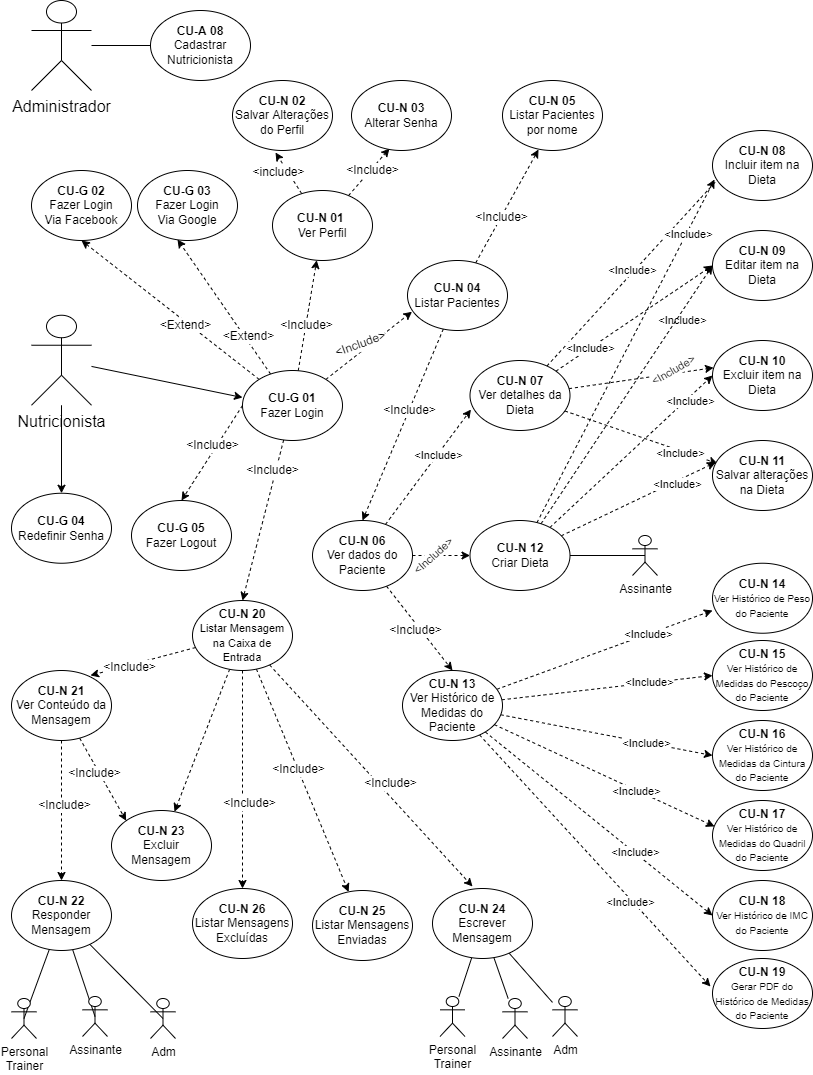
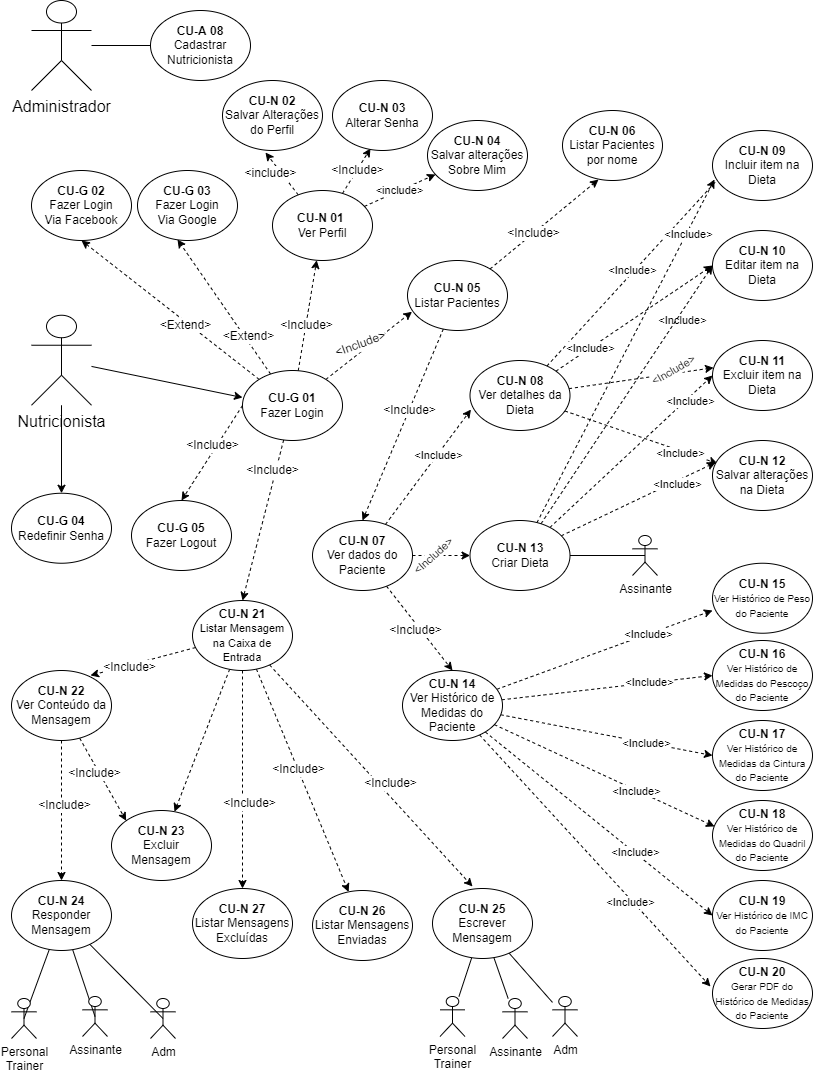
testes para os endpoints Nutri - alterar dados do perfil, alterar senha, alterar informações sobre mim

Changed region(s): [[0.2768, 0.0614, 0.7995, 0.2456]]

diff --git a/api/controllers/nutricionistasController.js b/api/controllers/nutricionistasController.js
@@ -27,7 +27,7 @@ function cadastrarNutricionista(req, res) {
     }
 
     let novoUsuario = {
-        id: crypto.randomUUID(),
+        idUsuario: crypto.randomUUID(),
         nome: req.body.nome,
         login: req.body.email,
         senha: geradorDeSenha.generate({
@@ -46,7 +46,7 @@ function cadastrarNutricionista(req, res) {
         repositorioDeUsuarios.salvarDadosDoUsuario(novoUsuario);
 
         let novoNutricionista = {
-            id: crypto.randomUUID(),
+            idNutri: crypto.randomUUID(),
             usuario: novoUsuario,
             nome: req.body.nome,
             email: req.body.email,
@@ -62,7 +62,6 @@ function cadastrarNutricionista(req, res) {
         res.send({
             IdUsuario: novoUsuario.id,
             idNutri: novoNutricionista.id,
-            senha: novoUsuario.senha
         });
 
     } else {
@@ -104,7 +103,9 @@ function buscarNutriPorId(req, res) {
         email: nutriEncontrado.email,
         telefone: nutriEncontrado.telefone,
         registro: nutriEncontrado.registroProfissional,
-        status: nutriEncontrado.usuario.bloqueado
+        status: nutriEncontrado.usuario.bloqueado,
+        imagem: nutriEncontrado.usuario.imagem,
+        sobreMim: nutriEncontrado.sobreMim
     });
 }
 
@@ -158,18 +159,17 @@ function alterarDadosDoPerfil(req, res) {
         return;
     }
 
-    if(req.usuario.idUsuario != nutriEncontrado.usuario.id) {
+    if(req.usuario.idUsuario != nutriEncontrado.usuario.idUsuario) {
         res.status(401).send({ erro: "Não autorizado"});
         return;
     }
-
 
 
     const novaImagem = req.body.imagem;
     const novoTelefone = req.body.telefone;
 
     if (novaImagem != undefined && novaImagem != null && novaImagem != "") {
-        nutriEncontrado.imagem = novaImagem;
+        nutriEncontrado.usuario.imagem = novaImagem;
     }
 
     if(novoTelefone != undefined && novoTelefone != null && novoTelefone != '') {
@@ -188,7 +188,7 @@ function alterarSenha(req, res) {
         return;
     }
 
-    if(req.usuario.idUsuario != nutriEncontrado.usuario.id) {
+    if(req.usuario.idUsuario != nutriEncontrado.usuario.idUsuario) {
         res.status(401).send({ erro: "Não autorizado"});
         return;
     }
@@ -202,8 +202,8 @@ function alterarSenha(req, res) {
     res.send(nutriEncontrado.usuario)
 }
 
-// O Nutricionista altera texto "sobre mim"
-function alterarTextoSobreMim(req, res) {
+// O Nutricionista altera informações "sobre mim"
+function alterarInformacoesSobreMim(req, res) {
     const nutriEncontrado = repositorioDeNutricionistas.buscarNutriPorId(req.params.id);
 
     if (!nutriEncontrado) {
@@ -211,11 +211,11 @@ function alterarTextoSobreMim(req, res) {
         return;
     }
 
-    if(req.usuario.idUsuario != nutriEncontrado.usuario.id) {
+    if(req.usuario.idUsuario != nutriEncontrado.usuario.idUsuario) {
         res.status(401).send({ erro: "Não autorizado"});
         return;
     }
-    nutriEncontrado.sobreMim = req.body.texto;;
+    nutriEncontrado.sobreMim = req.body.texto;
 
     res.send(nutriEncontrado)
 }
@@ -251,7 +251,7 @@ module.exports = {
     alterarDadosDoNutricionista: alterarDadosDoNutricionista,
     alterarDadosDoPerfil: alterarDadosDoPerfil,
     alterarSenha: alterarSenha,
-    alterarTextoSobreMim: alterarTextoSobreMim,
+    alterarInformacoesSobreMim: alterarInformacoesSobreMim,
     buscarPacientes: buscarPacientes,
 }
 

diff --git a/api/dados.js b/api/dados.js
@@ -3,25 +3,79 @@ const crypto = require('crypto');
 const dados = {
     usuarios: [
         {
-            id: "e7c17d74-f067-46ca-9734-1c232ba0ea18",
+            idUsuario: "e7c17d74-f067-46ca-9734-1c232ba0ea18",
             nome: 'Administrador',
             login: 'admin@fitapp.com',
             senha: 'admin123',
             bloqueado: false,
             perfil: 'administrador'
+        },
+        {
+            idUsuario: 'idUsuarioNutri',
+            nome: 'Nutricionista',
+            login: 'nutri@fitapp.com',
+            senha: 'nutri123',
+            bloqueado: false,
+            perfil: 'nutricionista',
+            imagem: ''
+        },
+        {
+            idUsuario: "idUsuarioPersonal",
+            nome: 'Personal',
+            login: 'personal@fitapp.com',
+            senha: 'personal123',
+            bloqueado: false,
+            perfil: 'personal',
+            imagem:''
         }
     ],
 
     planos: [],
 
-    nutricionistas: [],
+    nutricionistas: [
+        {
+            idNutri: 'idNutri',
+            usuario: {
+                idUsuario: 'idUsuarioNutri',
+                nome: 'Nutricionista',
+                login: 'nutri@fitapp.com',
+                senha: 'nutri123',
+                bloqueado: false,
+                perfil: 'nutricionista',
+                imagem: ''
+            },
+            nome: 'Nutricionista',
+            email: 'nutri@fitapp.com',
+            telefone: '999999999',
+            registroProfissional: 'CRN 123',
+            sobreMim: ''
+        },
+    ],
 
-    personalTrainers: [],
+    personalTrainers: [
+        {
+            idNutri: 'idPersonal',
+            usuario:  {
+                idUsuario: "idUsuarioPersonal",
+                nome: 'Personal',
+                login: 'personal@fitapp.com',
+                senha: 'personal123',
+                bloqueado: false,
+                perfil: 'personal',
+                imagem:''
+            },
+            nome: 'Personal',
+            email: 'personal@fitapp.com',
+            telefone: '999999999',
+            registroProfissional: 'CRP 123',
+            sobreMim: ''
+        }
+    ],
 
     assinantes: [],
 
     mensagens: []
-        
+
 }
 
 module.exports = {

diff --git a/testes/casosDeTeste/geral/buscarAssinantePorId.js b/testes/casosDeTeste/geral/buscarAssinantePorId.js
@@ -1,0 +1,24 @@
+const { spec } = require('pactum');
+const crypto = require('crypto');
+const nutricionista = require('../../funcoes/nutricionista');
+const personal = require('../../funcoes/personal');
+const usuario = require('../../funcoes/usuario');
+const plano = require('../../funcoes/plano');
+const assinante = require('../../funcoes/assinante');
+
+it('CU-A 01 - deve listar assinantes', async () => {
+    const token = await usuario.gerarToken('admin@fitapp.com', 'admin123');
+
+    const idPlano = await plano.cadastrarPlano(token, `Gratuito_${crypto.randomUUID()}`, 0, "Experimente gratis por 15 dias");
+
+    const idNutri = await nutricionista.cadastrarNutri(token, "ana", `ana_${crypto.randomUUID()}@fitapp.com`, "99999999", "BFUDbHJKd");
+
+    const idPersonal = await personal.cadastrarPersonal(token, "Bruno", `bruno_${crypto.randomUUID()}@fitapp.com`, "55 555 55 55", "CRN 123");
+
+    const idAssinante = await assinante.cadastrarAssinante("Guilherme", `gui_${crypto.randomUUID()}@fitapp.com`, idPlano, idNutri, idPersonal);
+
+    await spec()
+        .get(`http://localhost:3000/assinante/${idAssinante}`)
+        .withHeaders("Authorization", "Bearer " + token)
+        .expectStatus(200);
+});

diff --git a/testes/casosDeTeste/nutricionista/alterarDadosDoPerfil.js b/testes/casosDeTeste/nutricionista/alterarDadosDoPerfil.js
@@ -1,0 +1,27 @@
+const { spec } = require('pactum');
+const usuario = require('../../funcoes/usuario');
+
+it('CU-N 02 - O Nutricionista deve alterar os dados do perfil', async () => {
+    const tokenNutri = await usuario.gerarToken('nutri@fitapp.com', 'nutri123');
+
+    await spec()
+        .patch(`http://localhost:3000/nutricionista/idNutri/perfil`)
+        .withHeaders("Authorization", "Bearer " + tokenNutri)
+        .withJson({
+            "imagem": "umaFoto",
+            "telefone": "555555555",
+        })
+        .expectStatus(200);
+
+    await spec()
+        .get(`http://localhost:3000/nutricionista/idNutri`)
+        .withHeaders("Authorization", "Bearer " + tokenNutri)
+        .expectJsonLike(
+            {
+                "imagem": "umaFoto",
+                "telefone": "555555555",
+            }
+        )
+        .expectStatus(200);
+
+})

diff --git a/testes/casosDeTeste/nutricionista/alterarInformacoesSobreMim.js b/testes/casosDeTeste/nutricionista/alterarInformacoesSobreMim.js
@@ -1,0 +1,26 @@
+const { spec } = require('pactum');
+const usuario = require('../../funcoes/usuario');
+
+it('CU-N 04 - O Nutricionista deve alterar as informacoes Sobre Mim', async () => {
+    const tokenNutri = await usuario.gerarToken('nutri@fitapp.com', 'nutri123');
+
+    await spec()
+        .patch(`http://localhost:3000/nutricionista/idNutri/sobreMim`)
+        .withHeaders("Authorization", "Bearer " + tokenNutri)
+        .withJson({
+            "texto": "Informações sobre a Nutri",
+            
+        })
+        .expectStatus(200);
+
+    await spec()
+        .get(`http://localhost:3000/nutricionista/idNutri`)
+        .withHeaders("Authorization", "Bearer " + tokenNutri)
+        .expectJsonLike(
+            {
+                "sobreMim": "Informações sobre a Nutri",
+            }
+        )
+        .expectStatus(200);
+
+})

diff --git a/api/index.js b/api/index.js
@@ -23,7 +23,7 @@ servidor.app.patch('/nutricionista/:id', autorizacao.autorizar(model.perfil.admi
 servidor.app.get('/nutricionista/:id', nutricionistasController.buscarNutriPorId);
 servidor.app.patch('/nutricionista/:id/perfil', nutricionistasController.alterarDadosDoPerfil);
 servidor.app.patch('/nutricionista/:id/senha', nutricionistasController.alterarSenha);
-servidor.app.patch('/nutricionista/:id/sobreMim', nutricionistasController.alterarTextoSobreMim);
+servidor.app.patch('/nutricionista/:id/sobreMim', nutricionistasController.alterarInformacoesSobreMim);
 servidor.app.get('/nutricionista/:id/pacientes', nutricionistasController.buscarPacientes);
 
 //Personal Trainer

diff --git a/api/controllers/loginController.js b/api/controllers/loginController.js
@@ -23,8 +23,8 @@ function login(req, res) {
         return;
     }
 
-    var token = jwt.sign({ idUsuario: usuarioEncontrado.id, nome: usuarioEncontrado.nome, perfil: usuarioEncontrado.perfil }, 'shhhhh', { expiresIn: 60 * 60 });
-    res.send({idUsuario: usuarioEncontrado.id, token});
+    var token = jwt.sign({ idUsuario: usuarioEncontrado.idUsuario, nome: usuarioEncontrado.nome, perfil: usuarioEncontrado.perfil }, 'shhhhh', { expiresIn: 60 * 60 });
+    res.send({idUsuario: usuarioEncontrado.idUsuario, token});
 
 }
 

diff --git a/testes/casosDeTeste/nutricionista/alterarSenha.js b/testes/casosDeTeste/nutricionista/alterarSenha.js
@@ -1,0 +1,16 @@
+const { spec } = require('pactum');
+const usuario = require('../../funcoes/usuario');
+
+it('CU-N 03 - O Nutricionista deve alterar a senha', async () => {
+    const tokenNutri = await usuario.gerarToken('nutri@fitapp.com', 'nutri123');
+
+    await spec()
+        .patch(`http://localhost:3000/nutricionista/idNutri/senha`)
+        .withHeaders("Authorization", "Bearer " + tokenNutri)
+        .withJson({
+            "senha": "1",
+        })
+        .expectStatus(200);
+
+   
+})

diff --git a/api/repositorios/repositorioDeNutricionistas.js b/api/repositorios/repositorioDeNutricionistas.js
@@ -19,7 +19,7 @@ function buscarNutricionistasPorFiltro(nome) {
 }
 
 function buscarNutriPorId(id) {
-    return base.dados.nutricionistas.find(nutri => nutri.id == id);
+    return base.dados.nutricionistas.find(nutri => nutri.idNutri == id);
 }
 
 function buscarPacientesPorFiltro(nome, idNutri) {

diff --git a/testes/index.js b/testes/index.js
@@ -23,6 +23,9 @@ require('./casosDeTeste/administrador/alterarStatusDoAssinante');
 //Assinante
 
 //Nutricionista
+require('./casosDeTeste/nutricionista/alterarDadosDoPerfil');
+require('./casosDeTeste/nutricionista/alterarSenha');
+
 
 //Personal
 

diff --git a/testes/funcoes/nutricionista.js b/testes/funcoes/nutricionista.js
@@ -11,6 +11,7 @@ async function cadastrarNutri(token, nome, email, telefone, registroProfissional
             "registroProfissional": registroProfissional
         })
         .returns("idNutri");
+       
 }
 
 module.exports = {
